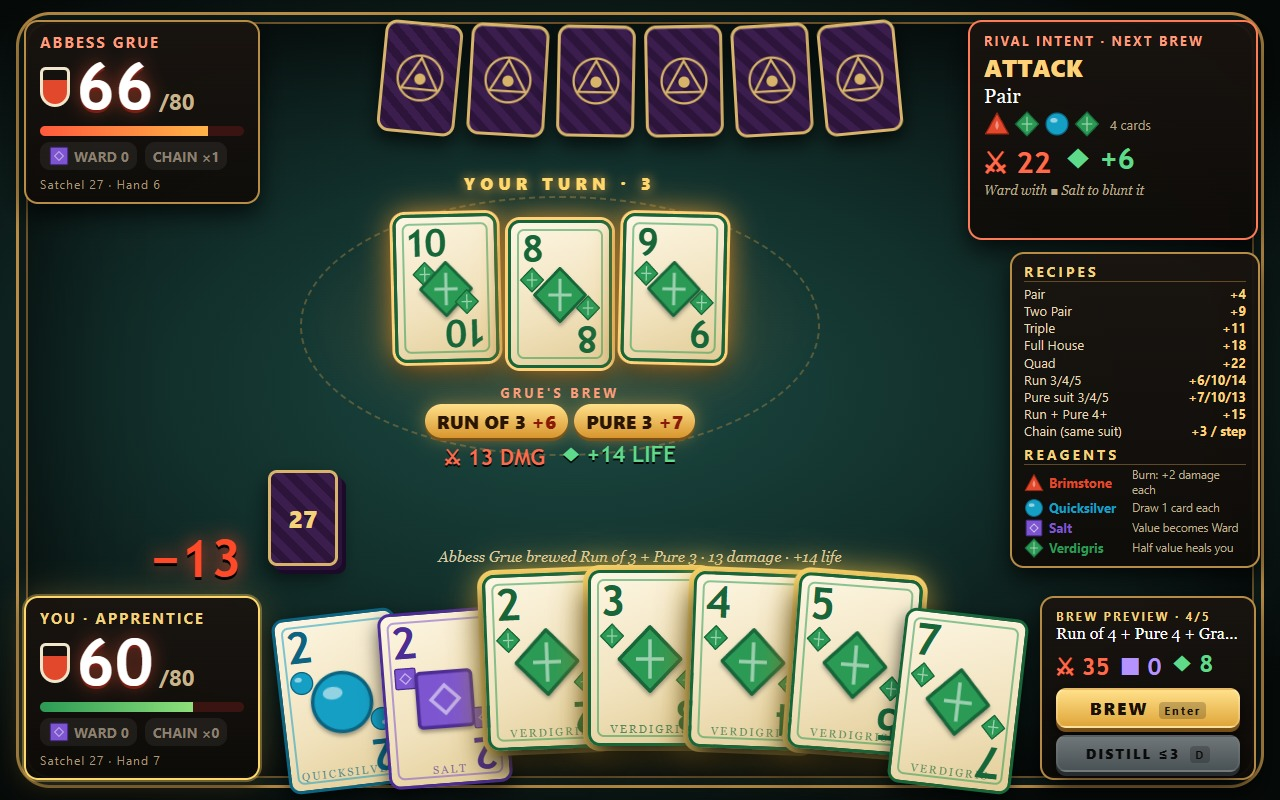
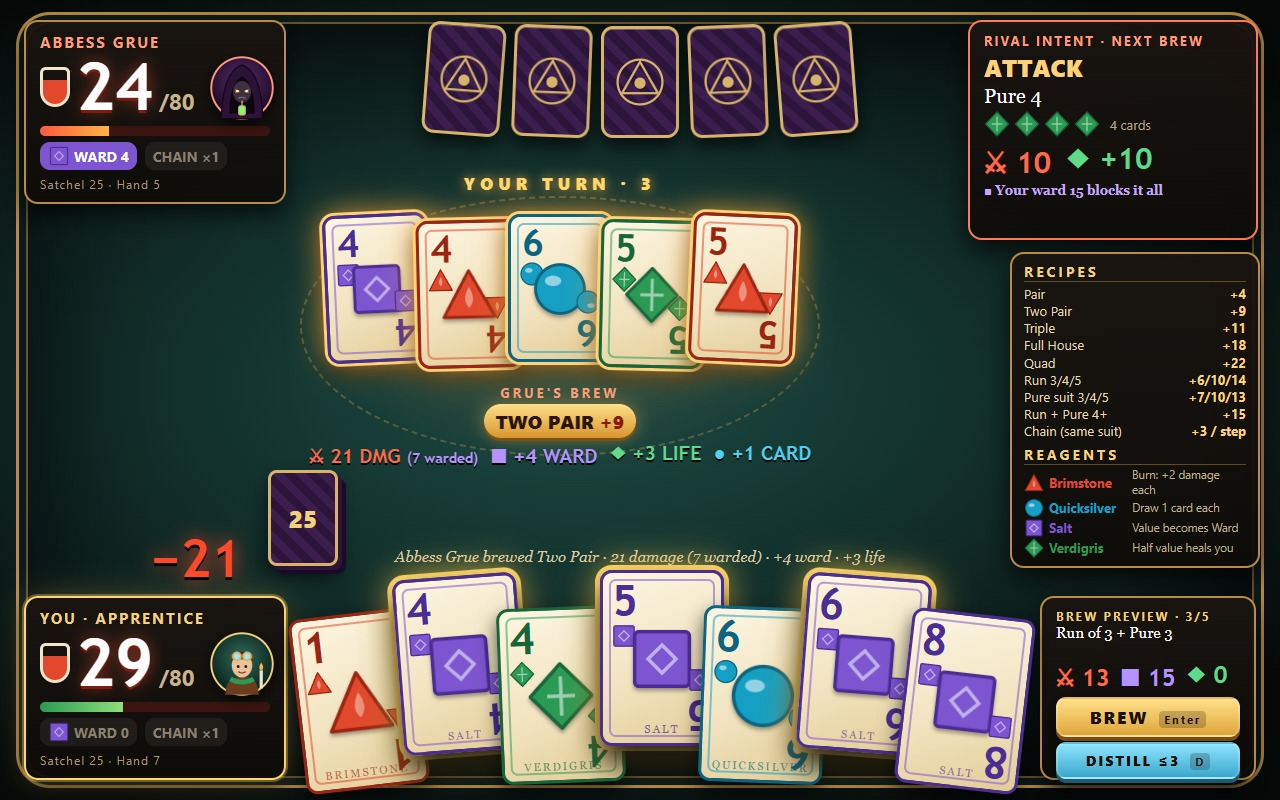
Portraits, live ward counter on rival intent, four-suit cover, victory rays, fix floating numbers

diff --git a/game/src/table-render.js b/game/src/table-render.js
@@ -3,6 +3,7 @@ import { SUITS, SUIT_ORDER } from './deck.js';
 import { evaluateBrew, MAX_BREW } from './combos.js';
 import { START_LIFE, HAND_LIMIT } from './rules.js';
 import { makeCardFace, makeCardBack, suitGlyphSvg } from './card-art.js';
+import { rivalPortrait, playerPortrait } from './portraits.js';
 
 export const STAGE_W = 1280;
 export const STAGE_H = 800;
@@ -44,11 +45,21 @@ function lifePanel(side, who, isTurn) {
       <span class="ward-badge${side.ward ? ' on' : ''}">${suitGlyphSvg('salt', 22)} WARD ${side.ward}</span>
       <span class="chain-badge${side.chain >= 2 ? ' on' : ''}">CHAIN ×${side.chain}</span>
     </div>
-    <div class="satchel">Satchel ${side.satchel.length} · Hand ${side.hand.length}</div>`;
+    <div class="satchel">Satchel ${side.satchel.length} · Hand ${side.hand.length}</div>
+    ${who === 'rival' ? rivalPortrait(64) : playerPortrait(64)}`;
   return p;
 }
 
-function intentPanel(state) {
+/** How hard the announced brew will land, counting the ward your selected brew would add. */
+function incomingAfterWard(state, ui) {
+  const picked = state.player.hand.filter((c) => ui.selected.has(c.id));
+  const extraWard = state.phase === 'player' ? evaluateBrew(picked, state.player.lastSuit, state.player.chain).ward : 0;
+  const ward = state.player.ward + extraWard;
+  const incoming = state.rival.intent.brew.damage;
+  return { incoming, ward, taken: Math.max(0, incoming - ward) };
+}
+
+function intentPanel(state, ui) {
   const intent = state.rival.intent;
   const p = el('div', 'panel intent-panel');
   if (!intent || state.phase === 'won' || state.phase === 'lost') {
@@ -68,8 +79,16 @@ function intentPanel(state) {
       ${b.ward ? `<span class="wrd">■ +${b.ward}</span>` : ''}
       ${b.heal ? `<span class="hl">◆ +${b.heal}</span>` : ''}
     </div>
-    <div class="intent-tip">Ward with ■ Salt to blunt it</div>`;
+    ${counterLine(state, ui)}`;
   return p;
+}
+
+function counterLine(state, ui) {
+  const { incoming, ward, taken } = incomingAfterWard(state, ui);
+  if (!incoming) return '<div class="intent-tip">No attack coming: press your advantage</div>';
+  if (ward >= incoming) return `<div class="intent-tip good">■ Your ward ${ward} blocks it all</div>`;
+  if (ward > 0) return `<div class="intent-tip">You take <b>${taken}</b> · ■ ward blocks ${ward}</div>`;
+  return `<div class="intent-tip">You take <b>${taken}</b> · ward with ■ Salt to blunt it</div>`;
 }
 
 function recipeBook() {
@@ -127,7 +146,7 @@ export function renderTable(root, state, ui) {
 
   table.append(place(lifePanel(state.rival, 'rival', state.phase === 'rival'), 24, 20));
   table.append(place(lifePanel(state.player, 'player', state.phase === 'player'), 24, 596));
-  table.append(place(intentPanel(state), 968, 20));
+  table.append(place(intentPanel(state, ui), 968, 20));
   table.append(place(recipeBook(), 1010, 252));
   table.append(place(previewPanel(state, ui), 1040, 596));
 
@@ -166,7 +185,7 @@ export function renderTable(root, state, ui) {
   table.append(place(el('div', 'log', state.log[state.log.length - 1] || ''), 268, 548));
 
   // Player hand.
-  const slots = handSlots(state.player.hand.length, 650, HAND_CARD_W, 740);
+  const slots = handSlots(state.player.hand.length, 662, HAND_CARD_W, 730);
   state.player.hand.forEach((card, i) => {
     const s = slots[i];
     const raised = ui.selected.has(card.id);

diff --git a/game/src/portraits.js b/game/src/portraits.js
@@ -1,0 +1,34 @@
+// Portraits of the two duellists, drawn as inline SVG.
+
+/** Abbess Grue: a hooded alchemist-abbess with ember eyes and a vial of vitriol. */
+export function rivalPortrait(size = 72) {
+  return `<svg class="portrait" viewBox="0 0 100 100" width="${size}" height="${size}">
+    <defs><radialGradient id="pgr" cx="50%" cy="40%" r="60%"><stop offset="0" stop-color="#5a2a6e"/><stop offset="1" stop-color="#1a0b22"/></radialGradient></defs>
+    <circle cx="50" cy="50" r="48" fill="url(#pgr)" stroke="#ff9b7a" stroke-width="3"/>
+    <path d="M18 98 C18 60 26 22 50 14 C74 22 82 60 82 98Z" fill="#2b1236" stroke="#120616" stroke-width="2"/>
+    <path d="M30 90 C30 62 36 38 50 32 C64 38 70 62 70 90Z" fill="#0c0610"/>
+    <ellipse cx="50" cy="56" rx="14" ry="17" fill="#3d3140"/>
+    <path d="M40 52 L47 55 L40 57Z" fill="#ffb347"/><path d="M60 52 L53 55 L60 57Z" fill="#ffb347"/>
+    <circle cx="43" cy="55" r="2" fill="#fff3c4"/><circle cx="57" cy="55" r="2" fill="#fff3c4"/>
+    <path d="M44 66 Q50 63 56 66" stroke="#8a5a7a" stroke-width="2" fill="none"/>
+    <rect x="45" y="78" width="10" height="14" rx="3" fill="#7cff6a" stroke="#d8b46a" stroke-width="2"/>
+    <path d="M50 70 L50 78" stroke="#d8b46a" stroke-width="2"/>
+  </svg>`;
+}
+
+/** The apprentice: brass goggles pushed up, a green scarf, a lit taper. */
+export function playerPortrait(size = 72) {
+  return `<svg class="portrait" viewBox="0 0 100 100" width="${size}" height="${size}">
+    <defs><radialGradient id="ppr" cx="50%" cy="40%" r="60%"><stop offset="0" stop-color="#2f6a5a"/><stop offset="1" stop-color="#0b1f1a"/></radialGradient></defs>
+    <circle cx="50" cy="50" r="48" fill="url(#ppr)" stroke="#f3d27a" stroke-width="3"/>
+    <path d="M24 98 C24 78 34 70 50 70 C66 70 76 78 76 98Z" fill="#6b3d1e"/>
+    <path d="M30 76 C40 84 60 84 70 76 L66 70 C58 76 42 76 34 70Z" fill="#2b9a55"/>
+    <ellipse cx="50" cy="52" rx="16" ry="19" fill="#e9c39a"/>
+    <path d="M33 46 C33 26 67 26 67 46 C60 38 40 38 33 46Z" fill="#4a2a14"/>
+    <rect x="32" y="34" width="36" height="9" rx="4" fill="#7a5218"/>
+    <circle cx="42" cy="38" r="6" fill="#9fe6ff" stroke="#d8b46a" stroke-width="3"/><circle cx="58" cy="38" r="6" fill="#9fe6ff" stroke="#d8b46a" stroke-width="3"/>
+    <circle cx="44" cy="54" r="2.2" fill="#2a1503"/><circle cx="56" cy="54" r="2.2" fill="#2a1503"/>
+    <path d="M44 62 Q50 66 56 62" stroke="#8a4a2a" stroke-width="2" fill="none"/>
+    <path d="M80 60 L80 88" stroke="#f1e6cc" stroke-width="5"/><path d="M80 48 C76 54 76 58 80 60 C84 58 84 54 80 48Z" fill="#ffb347"/>
+  </svg>`;
+}

diff --git a/game/style.css b/game/style.css
@@ -41,7 +41,7 @@ html, body { margin: 0; height: 100%; background: #07090a; overflow: hidden; fon
 
 /* Panels */
 .panel { background: linear-gradient(180deg, #1a1410ee, #0e0b08ee); border: 2px solid #b98c45; border-radius: 14px; box-shadow: 0 10px 24px #000b; padding: 10px 14px; }
-.life-panel { width: 236px; }
+.life-panel { width: 262px; }
 .life-panel.active { border-color: #ffd76a; box-shadow: 0 0 0 2px #ffd76a55, 0 0 30px #ffd76a44, 0 10px 24px #000b; }
 .life-panel .who { font: bold 15px 'Segoe UI', sans-serif; letter-spacing: 2px; color: #f3d27a; }
 .life-panel.rival .who { color: #ff9b7a; }
@@ -155,3 +155,19 @@ html, body { margin: 0; height: 100%; background: #07090a; overflow: hidden; fon
 .end-stats em { font-style: normal; color: #a99878; letter-spacing: 1px; }
 .end-stats b { font-size: 22px; color: #ffd27a; }
 .end-line { font: italic 18px Georgia, serif; color: #e6d8b8; margin-top: 6px; }
+
+/* Portraits, counter line, victory rays (v2) */
+.pop { position: absolute; }
+.life-panel .portrait { position: absolute; right: 10px; top: 34px; filter: drop-shadow(0 4px 6px #000a); }
+.intent-panel .portrait { position: absolute; right: 12px; top: 12px; }
+.intent-tip b { color: #ff6a4a; font: 900 18px 'Segoe UI', sans-serif; }
+.intent-tip.good { color: #c4a8ff; font-style: normal; font-weight: bold; }
+.preview-title { white-space: normal; font-size: 15px; line-height: 1.15; min-height: 36px; max-height: 36px; overflow: hidden; }
+.preview-nums { margin-top: 0; }
+.action-panel .btn { margin-top: 5px; }
+.end-screen.win::before { content: ''; position: absolute; left: 50%; top: 45%; width: 1600px; height: 1600px; transform: translate(-50%, -50%);
+  background: repeating-conic-gradient(from 0deg, #ffd27a2e 0deg 8deg, transparent 8deg 22deg); border-radius: 50%;
+  -webkit-mask: radial-gradient(circle, #000 0%, transparent 60%); mask: radial-gradient(circle, #000 0%, transparent 60%); animation: rays 18s linear infinite; }
+@keyframes rays { to { transform: translate(-50%, -50%) rotate(360deg); } }
+.effects { gap: 12px; font-size: 20px; white-space: nowrap; }
+.effects > span { white-space: nowrap; }

diff --git a/game/src/shots.js b/game/src/shots.js
@@ -28,6 +28,16 @@ function showiestSelection(state) {
   return best;
 }
 
+const RANK_RECIPES = ['twoPair', 'triple', 'fullHouse', 'quad'];
+
+/** A moment worth a cover: Grue just landed a mixed-suit rank recipe and every suit is in your hand. */
+function showsOffSuits(state, last) {
+  if (state.turn < 3 || last.dealt < 12 || state.rival.hand.length < 4) return false;
+  if (!last.brew.combos.some((c) => RANK_RECIPES.includes(c.key))) return false;
+  if (new Set(last.brew.cards.map((c) => c.suit)).size < 3) return false;
+  return new Set(state.player.hand.map((c) => c.suit)).size === 4;
+}
+
 /** Mid-duel, on the player's turn: Grue's brew just landed with a recipe, her next intent is up. */
 export function stageTable(seed) {
   for (let s = seed; s < seed + 3000; s++) {
@@ -36,9 +46,9 @@ export function stageTable(seed) {
       playOneTurn(state);
       const last = state.lastBrew;
       if (state.phase !== 'player' || !last || last.by !== 'rival') continue;
-      if (state.turn < 3 || last.brew.combos.length < 2 || last.dealt < 8 || state.rival.hand.length < 4) continue;
+      if (!showsOffSuits(state, last)) continue;
       if (state.player.life < 25 || state.rival.life < 20 || state.rival.life > 70) continue;
-      if (state.player.hand.length < 6 || !state.rival.intent || state.rival.intent.brew.damage < 10) continue;
+      if (state.player.hand.length < 7 || !state.rival.intent || state.rival.intent.brew.damage < 10) continue;
       const pick = showiestSelection(state);
       if (!pick || pick.brew.combos.length < 2) continue;
       return { state, selected: new Set(pick.brew.cards.map((c) => c.id)), pops: [{ target: 'player', text: `−${last.dealt}`, kind: 'dmg' }], seed: s };
